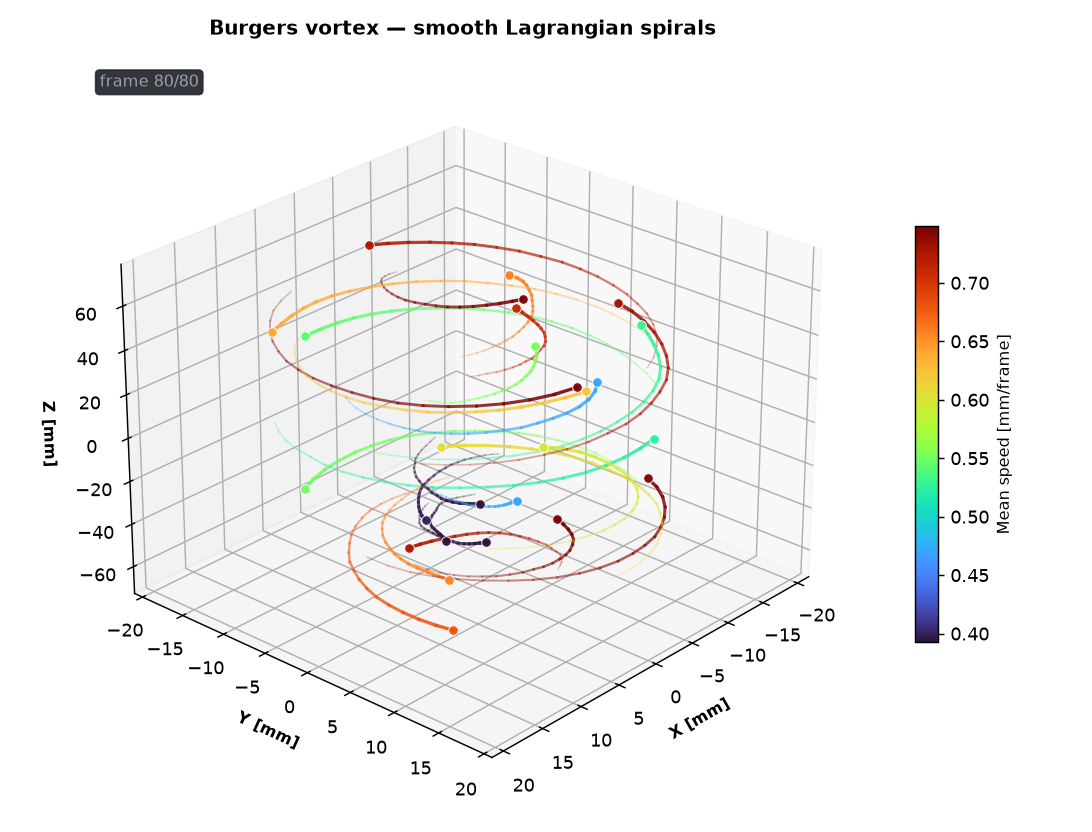
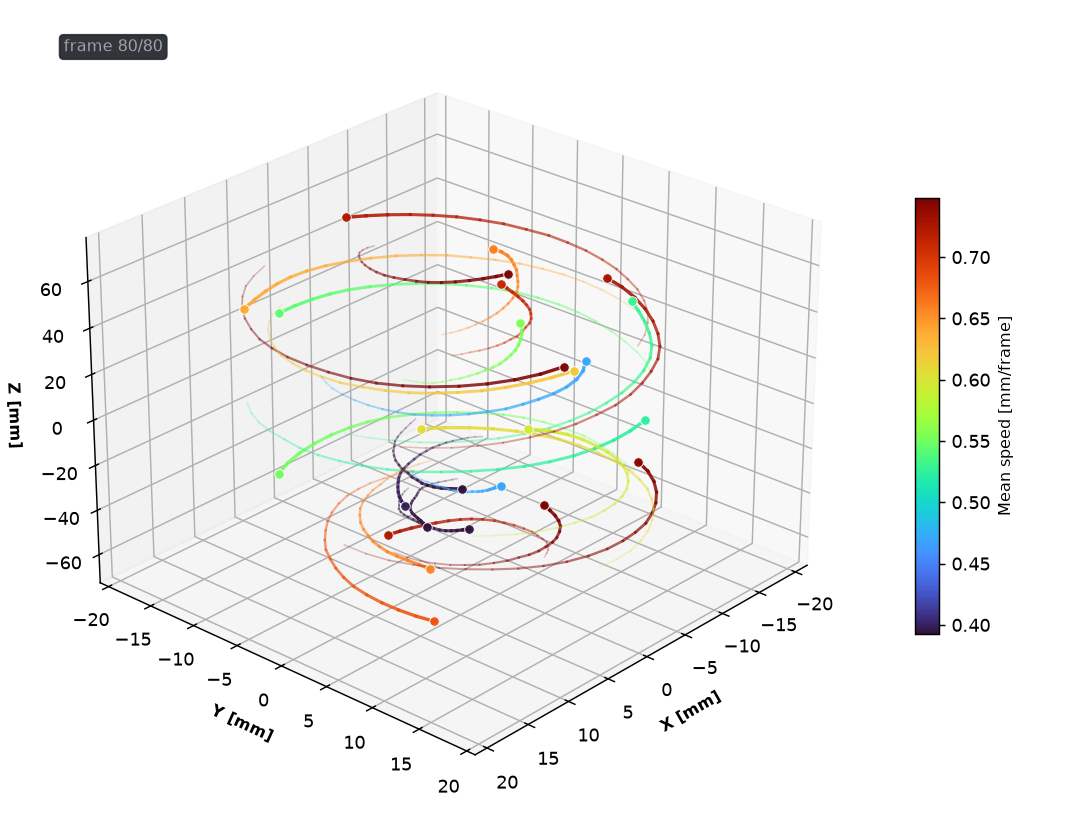
docs: remove title from Burgers GIF and add Ruiz et al (2023) citation + publications
- Generate burgers_smooth_moving.gif without in-image title (static view,
  smooth Savitzky-Golay trails, imageio.v3, 80 frames)
- README hero caption now: Data of a synthetic Burgers vortex created for
  the manuscript: Ruiz, Liberzon, Bhattacharya (2023),
  doi:10.1016/j.flowmeasinst.2023.102310
- Add Publications section at bottom of README with links to
  Google Scholar (Liberzon 3D-PTV), TAU CRIS, OpenPTV org search and the
  Burgers dataset paper

diff --git a/scripts/generate_burgers_smooth_gif.py b/scripts/generate_burgers_smooth_gif.py
@@ -79,9 +79,6 @@ ax.set_zlim(zmin - pad, zmax + pad)
 ax.set_xlabel("X [mm]", fontsize=9, fontweight="bold")
 ax.set_ylabel("Y [mm]", fontsize=9, fontweight="bold")
 ax.set_zlabel("Z [mm]", fontsize=9, fontweight="bold")
-ax.set_title(
-    "Burgers vortex — smooth Lagrangian spirals", fontsize=11, fontweight="bold", pad=12
-)
 ax.grid(True, linestyle="--", alpha=0.22)
 ax.view_init(elev=elev, azim=azim)
 sm = plt.cm.ScalarMappable(cmap=cmap, norm=norm)
@@ -99,12 +96,6 @@ for f in range(T):
     ax.set_xlabel("X [mm]", fontsize=9, fontweight="bold")
     ax.set_ylabel("Y [mm]", fontsize=9, fontweight="bold")
     ax.set_zlabel("Z [mm]", fontsize=9, fontweight="bold")
-    ax.set_title(
-        "Burgers vortex — smooth Lagrangian spirals",
-        fontsize=11,
-        fontweight="bold",
-        pad=12,
-    )
     ax.grid(True, linestyle="--", alpha=0.22)
     ax.view_init(elev=elev, azim=azim)
     for traj, v in zip(trajectories, vels):

diff --git a/README.md b/README.md
@@ -19,6 +19,7 @@ selector.
 <p align="center">
   <img src="docs/images/burgers_smooth_moving.gif" alt="Burgers vortex — smooth Lagrangian spirals (particles moving)" width="620"/>
 </p>
+<p align="center"><em>Data of a synthetic Burgers vortex created for the manuscript: Ruiz, Liberzon, Bhattacharya (2023), <a href="https://doi.org/10.1016/j.flowmeasinst.2023.102310">doi:10.1016/j.flowmeasinst.2023.102310</a></em></p>
 
 - **Algorithms** (`src/openptv2/algorithms/`) - Cython 3 pure-Python particle tracking, correspondence, and calibration code
 - **Plugins** (`src/openptv2/plugins/`) - pluggable tracker implementations (fast, MyPTV/ProPTV-informed trackers)
@@ -541,3 +542,14 @@ The project includes scripts for building and testing:
 | `scripts/install_wheel.sh` | Install wheel in clean test environment |
 | `scripts/run_tests.sh` | Run test suite in test environment |
 | `docker/Dockerfile.slim` | Slim Docker image for testing |
+
+---
+
+## Publications
+
+For publications where **OpenPTV / Liberzon + 3D-PTV / particle tracking** are mentioned, see:
+
+* **Alex Liberzon — Google Scholar (3D-PTV, particle tracking velocimetry):** <https://scholar.google.com/citations?user=3vgugREAAAAJ&hl=en>
+* **Tel Aviv University CRIS — publications list:** <https://cris.tau.ac.il/en/persons/alex-liberzon/publications/>
+* **OpenPTV organisation — related work:** <https://github.com/search?q=org%3Aopenptv+OR+OpenPTV&type=repositories> and the original OpenPTV paper: <https://doi.org/10.17605/osf.io/tdcn4>
+* **Example Burgers vortex dataset paper (synthetic data used for the hero animation):** Ruiz, Liberzon, Bhattacharya (2023), *Flow Measurement and Instrumentation*, <https://doi.org/10.1016/j.flowmeasinst.2023.102310>
